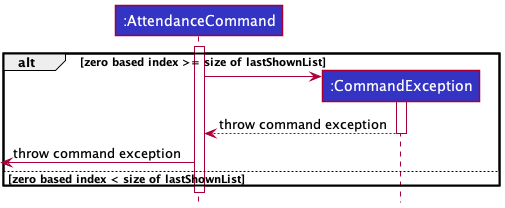
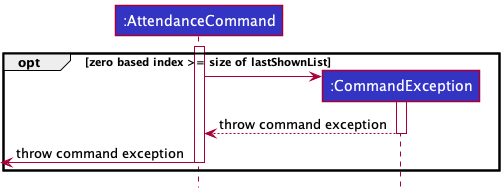
Add ParticipationCommand to DeveloperGuide.md

Changed region(s): [[0.0, 0.0, 1.0, 0.9637]]

diff --git a/docs/DeveloperGuide.md b/docs/DeveloperGuide.md
@@ -156,7 +156,7 @@ This section describes some noteworthy details on how certain features are imple
 
 ### AttendanceCommand
 
-This command serves to update the attendance status of students.
+This command serves to update the attendance status of students. A student's `Attendance` can be either attended or unattended.
 
 #### Implementation
 
@@ -174,15 +174,29 @@ For IndexWithinRange and UpdateModelAttendanceSequenceDiagram, the sequential di
 
 ![IndexWithinRangeSequenceDiagram](images/logic/commands/attendancecommand/IndexWithinRangeSequenceDiagram.png)
 
-<div markdown="span" class="alert alert-info">:information_source: **Note:** The lifeline for `AttendanceCommand` should end in the first alt frame and restart in the second alt frame but due to a limitation of PlantUML, the lifeline reaches the end of diagram.
+If the condition is met, a `CommandException` is thrown to let the user know that the `Index` input is invalid.
 
 ![UpdateModelAttendanceSequenceDiagram](images/logic/commands/attendancecommand/UpdateModelAttendanceSequenceDiagram.png)
 
 <div markdown="span" class="alert alert-info">:information_source: **Note:** There are 2 separate instances of :Student as we are creating a new :Student instance. 
 
+### ParticipationCommand
+
+This command serves to update the participation score of students. Following the XP system for CS1101S, each student is awarded between 0 and 500 XP (inclusive) per Studio session.
+
+#### Implementation
+
+`ParticipationCommand` will extend the `Command` class and will consequently `@Override` the `Command#execute()` method to serve the aforementioned purpose.
+
+The implementation is similar to `AttendanceCommand`, with the same sequence diagram being applicable for Participation given that the proper refactoring is done. `ParticipationCommand` has an additional section in the sequence diagram and it is located between the two loops in `AttendanceCommand`:
+
+![ParticipationCommandMarkAttendanceSequenceDiagram](images/logic/commands/participationcommand/ParticipationCommandMarkAttendanceSequenceDiagram.png)
+
+<div markdown="span" class="alert alert-info">:information_source: **Note:** The logic above is to update the Attendance and is only executed in the event that participationUpdate is more than 0. Otherwise, it will not run.
+
 ### SortCommand
 
-This command sorts the `AcademyDirectory` student list based on their `Participation`, `Assessment` and `Name`.
+This command sorts the `AcademyDirectory` student list based on their `Participation`, `Assessment` and `Name`. When sorting by `Assessment`, users have the option of sorting by individual `Assessment` or by the average grade among. Users can also choose if they want to sort by ascending or descending.
 
 #### Implementation
 
